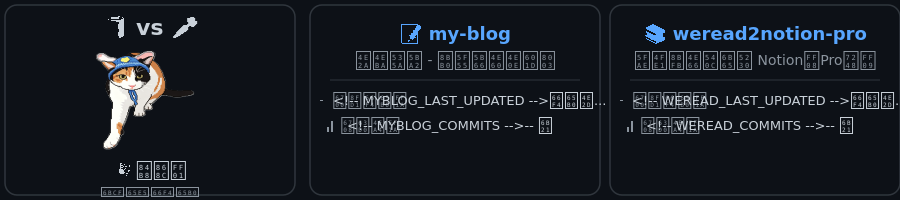
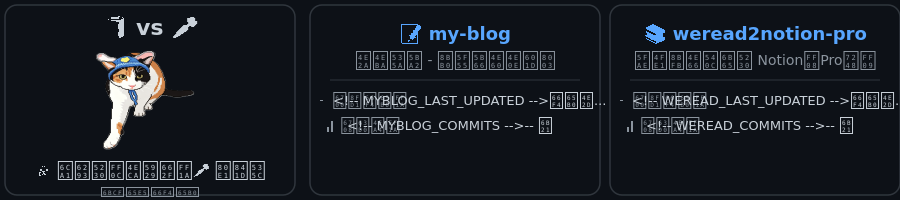
🎮 更新每日游戏和卡片图片

Changed region(s): [[0.0311, 0.78, 0.3111, 0.9]]

diff --git a/README.md b/README.md
@@ -6,7 +6,7 @@
         <img src="cat.png" width="100" alt="小猫" style="margin:14px 0;" />
         <details style="margin-top:8px;">
           <summary style="cursor:pointer; background:#238636; padding:8px 20px; border-radius:20px; color:white; font-weight:bold; display:inline-block;">🐱 点我试试手气</summary>
-          <div style="margin-top:14px; font-size:1.05em; font-weight:500;"><!-- GAME_RESULT --></div>
+          <div style="margin-top:14px; font-size:1.05em; font-weight:500;">😿 没抓到，今天是：🧻 纸巾</div>
         </details>
         <div style="font-size:0.7em; color:#8b949e; margin-top:12px; letter-spacing:0.5px;">每日更新</div>
         <!-- 👇 隐藏占位图片：宽度300px，颜色与卡片背景一致 -->
